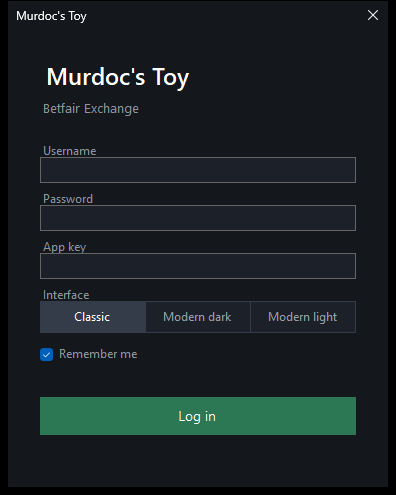
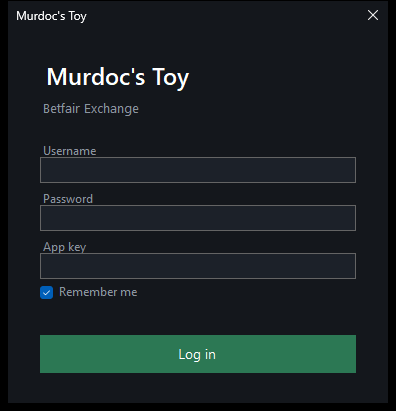
Classic is the only offered interface; Modern is deprecated (kept, reachable with --ui=dark|light); login has no interface switch; v0.5.2

diff --git a/src/MurdocsToy.Desktop/LoginForm.cs b/src/MurdocsToy.Desktop/LoginForm.cs
@@ -50,13 +50,13 @@ sealed class LoginForm : Form
 
     readonly LoginStore.Saved _saved = LoginStore.Load();
     readonly TextBox _user = Field(), _pass = Field(true), _key = Field();
-    readonly InterfacePicker _ui = new() { Dock = DockStyle.Top };
+    readonly InterfacePicker _ui = new() { Dock = DockStyle.Top, Visible = false };   // deprecated: the Modern views are no longer offered here
     readonly CheckBox _remember = new() { Text = "Remember me", AutoSize = false, Height = 28, Dock = DockStyle.Top, ForeColor = Muted, Font = new Font("Segoe UI", 9f) };
     readonly Label _status = new() { AutoSize = false, Height = 22, ForeColor = Muted, Font = new Font("Segoe UI", 9f), Dock = DockStyle.Top };
     readonly Button _ok = new() { Text = "Log in", Height = 38, Dock = DockStyle.Top, FlatStyle = FlatStyle.Flat, Font = new Font("Segoe UI", 10.5f), ForeColor = Color.White, BackColor = Color.FromArgb(44, 120, 84), Cursor = Cursors.Hand };
     readonly bool _autoLogin;
     public BetfairClient? Client { get; private set; }
-    public string Ui => _ui.Value;
+    public string Ui => _ui.Value;      // whatever was asked for on the command line; Classic by default
 
     static TextBox Field(bool password = false) => new()
     {
@@ -79,7 +79,7 @@ sealed class LoginForm : Form
         Text = "Murdoc's Toy";
         FormBorderStyle = FormBorderStyle.FixedDialog; MaximizeBox = MinimizeBox = false;
         StartPosition = FormStartPosition.CenterScreen;
-        ClientSize = new Size(380, 456);
+        ClientSize = new Size(380, 372);
         BackColor = Back; ForeColor = Color.White; Font = new Font("Segoe UI", 9f);
         Theme.TitleBar(this, Back, Color.White);
 
@@ -91,8 +91,7 @@ sealed class LoginForm : Form
         // docked Top: the last control added sits at the top
         var body = new Panel { Dock = DockStyle.Fill, Padding = new Padding(32, 28, 32, 16), BackColor = Back };
         body.Controls.Add(_ok); body.Controls.Add(Gap(6)); body.Controls.Add(_status); body.Controls.Add(_remember);
-        body.Controls.Add(Gap(8)); body.Controls.Add(_ui); body.Controls.Add(Caption("Interface"));
-        body.Controls.Add(_key); body.Controls.Add(Caption("App key"));
+                body.Controls.Add(_key); body.Controls.Add(Caption("App key"));
         body.Controls.Add(_pass); body.Controls.Add(Caption("Password"));
         body.Controls.Add(_user); body.Controls.Add(Caption("Username"));
         body.Controls.Add(Gap(14)); body.Controls.Add(sub); body.Controls.Add(title);

diff --git a/src/MurdocsToy.Desktop/Program.cs b/src/MurdocsToy.Desktop/Program.cs
@@ -15,7 +15,7 @@ static class Program
         bool auto = args.Contains("--smoke") || args.Contains("--autologin");
         string ui = (args.FirstOrDefault(a => a.StartsWith("--ui="))?[5..]) switch
         {
-            "classic" => Ui.Classic, "light" => Ui.ModernLight, "dark" => Ui.ModernDark, _ => LoginStore.Load().Ui ?? Ui.ModernDark,
+            "classic" => Ui.Classic, "light" => Ui.ModernLight, "dark" => Ui.ModernDark, _ => Ui.Classic,
         };
         Theme.Dark = ui == Ui.ModernDark;
         using var login = new LoginForm(auto, ui, args.Contains("--show-login"));
@@ -46,12 +46,6 @@ static class LoginStore
         try
         {
             var s = JsonSerializer.Deserialize<Saved>(File.ReadAllText(PathFile)) ?? new(null, null, null);
-            // Classic was the default and is now deprecated: move a saved Classic choice to Modern once. Choosing Classic again sticks.
-            if (!s.ClassicMigrated)
-            {
-                s = s with { ClassicMigrated = true, Ui = s.Ui == Ui_.Classic ? Ui_.ModernDark : s.Ui };
-                try { File.WriteAllText(PathFile, JsonSerializer.Serialize(s)); } catch { }
-            }
             return s;
         }
         catch { return new(null, null, null, ClassicMigrated: true); }

diff --git a/src/MurdocsToy.Desktop/Theme.cs b/src/MurdocsToy.Desktop/Theme.cs
@@ -2,12 +2,12 @@ using System.Runtime.InteropServices;
 
 namespace MurdocsToy.Desktop;
 
-/// <summary>User interface choices offered at login. Classic is DEPRECATED: it is kept (and still works) but gets no new features and is not the default.</summary>
+/// <summary>The interfaces. Classic is THE interface. The two Modern ones are DEPRECATED: kept (and still working) but not offered at login; start with --ui=dark or --ui=light to use them.</summary>
 public static class Ui
 {
     public const string ModernDark = "ModernDark", ModernLight = "ModernLight", Classic = "Classic";
     public static readonly string[] All = { ModernDark, ModernLight, Classic };
-    public static string Label(string ui) => ui switch { ModernLight => "Modern (light)", Classic => "Classic (deprecated)", _ => "Modern (dark)" };
+    public static string Label(string ui) => ui switch { ModernLight => "Modern light (deprecated)", Classic => "Classic", _ => "Modern dark (deprecated)" };
     public static string FromLabel(string label) => All.FirstOrDefault(u => Label(u) == label) ?? ModernDark;
 }
 

diff --git a/src/MurdocsToy.Desktop/ClassicMainForm.cs b/src/MurdocsToy.Desktop/ClassicMainForm.cs
@@ -4,7 +4,7 @@ using MurdocsToy.Core;
 namespace MurdocsToy.Desktop;
 
 /// <summary>
-/// DEPRECATED (kept for now, no new features; Modern is the default). The Classic main window: a narrow navigator (balance row, sport header, Today/All filters, country > competition > match > market
+/// The Classic main window: a narrow navigator (balance row, sport header, Today/All filters, country > competition > match > market
 /// tree with flags). Double-click a match to open its ladders.
 /// </summary>
 sealed class ClassicMainForm : Form
@@ -72,7 +72,6 @@ sealed class ClassicMainForm : Form
         _tree.NodeMouseClick += (_, e) => { if (e.Button == MouseButtons.Right) { _tree.SelectedNode = e.Node; NodeMenu(e.Node, e.Location); } };
 
         _host.Status += s => _status.Text = s;
-        _status.Text = "The Classic view is deprecated: Modern is the default now.";
         _host.FavoritesChanged += SyncFavorites;
         _scoreTimer.Tick += (_, _) => RefreshLabels();
         _volTimer.Tick += async (_, _) => await RefreshVolumes();

diff --git a/src/MurdocsToy.Desktop/ClassicLadderForm.cs b/src/MurdocsToy.Desktop/ClassicLadderForm.cs
@@ -4,7 +4,7 @@ using MurdocsToy.Core;
 namespace MurdocsToy.Desktop;
 
 /// <summary>
-/// DEPRECATED (kept for now, no new features; Modern is the default). Classic trading window for one market: a ladder per runner side by side, and the slate tools panel on the right
+/// Classic trading window for one market: a ladder per runner side by side, and the slate tools panel on the right
 /// (clock and book percentages, back/lay staking, bet persistence, market information, ladder selector).
 /// </summary>
 sealed partial class ClassicLadderForm : Form

diff --git a/src/MurdocsToy.Desktop/LadderForm.cs b/src/MurdocsToy.Desktop/LadderForm.cs
@@ -2,7 +2,7 @@ using MurdocsToy.Core;
 
 namespace MurdocsToy.Desktop;
 
-/// <summary>Pop-up trading window for one market: a ladder per runner side by side, one-click betting, stake buttons.</summary>
+/// <summary>DEPRECATED (kept, not offered). Pop-up trading window for one market: a ladder per runner side by side, one-click betting, stake buttons.</summary>
 sealed class LadderForm : Form
 {
     readonly BetfairClient _bf;

diff --git a/src/MurdocsToy.Desktop/MainForm.cs b/src/MurdocsToy.Desktop/MainForm.cs
@@ -2,7 +2,7 @@ using MurdocsToy.Core;
 
 namespace MurdocsToy.Desktop;
 
-/// <summary>The Modern main window: tree explorer on the left, selected market on the right.</summary>
+/// <summary>DEPRECATED (kept, not offered; start with --ui=dark|light). The Modern main window: tree explorer on the left, selected market on the right.</summary>
 sealed class MainForm : Form
 {
     readonly AppHost _host;

diff --git a/README.md b/README.md
@@ -2,22 +2,18 @@
 
 An open-source Betfair Exchange trading client for Windows, with a browser UI that mirrors it.
 
-- **Desktop** (`src/MurdocsToy.Desktop`, C# / WinForms) in three interfaces you pick at login: **Modern (dark)**, **Modern (light)** and **Classic**.
+- **Desktop** (`src/MurdocsToy.Desktop`, C# / WinForms) with the **Classic** interface: a dense, traditional trading layout. (Two older *Modern* interfaces are still in the code but deprecated and not offered.)
 - **Web** (`web/`, dependency-free Node server + single-page UI). While the desktop app runs it serves this UI itself and mirrors what you are looking at.
 
 Everything uses only Betfair's public, documented [Exchange API-NG](https://betfair-developer-docs.atlassian.net/wiki/spaces/1smk3cen4v3lu3yomq5qye0ni/overview). This is an independent, clean-room project: all code and artwork are original, and it is not affiliated with Betfair.
 
-## Interfaces
+## Interface
 
-Choose one with the **Interface** switch on the login window (**Modern dark is the default**; Classic is deprecated, see below) (Classic is the default; your choice is remembered; `--ui=dark|light|classic` overrides it).
-
-**Modern (dark / light)**: tree explorer on the left, selected market on the right, pop-up ladders. Dark mode includes a dark title bar and dark menus.
-
-![Modern dark main window](docs/desktop.png)
-
-**Classic (deprecated)**: kept for now and still works, but it gets no new features and is no longer the default. A dense, traditional trading layout. A narrow navigator window with the account balance, a sport header, a date filter (*Today / Tomorrow / Next 2 days*) and a scope filter (*All / In-play / Favorites*, opening on In-play), and a **country > competition > match > market** tree with flags. Each match opens in a trading window with a **ladder per runner side by side** (name and stake header, position panel, bar-scale strip, summary row, price rows with a grey price column, pink *lay* and blue *back* columns, your own orders, traded volume, a green/red depth bar and order boxes) next to a slate **tools panel**: clock, book percentages, back and lay staking (lay can be stake or liability), bet persistence, *Green up all*, *Cancel all*, market information and a ladder selector. The window title shows the matched amount, e.g. `Viking v Bayern Munich - Match Odds   €233 658`.
+The app opens in the **Classic** interface. The earlier *Modern dark/light* interfaces are **deprecated**: the code is kept, but they are not offered at login and get no new features (start with `--ui=dark` or `--ui=light` to see them).
 
 ![Login](docs/login.png)
+
+**Classic**: a dense, traditional trading layout. A narrow navigator window with the account balance, a sport header, a date filter (*Today / Tomorrow / Next 2 days*) and a scope filter (*All / In-play / Favorites*, opening on In-play), and a **country > competition > match > market** tree with flags. Each match opens in a trading window with a **ladder per runner side by side** (name and stake header, position panel, bar-scale strip, summary row, price rows with a grey price column, pink *lay* and blue *back* columns, your own orders, traded volume, a green/red depth bar and order boxes) next to a slate **tools panel**: clock, book percentages, back and lay staking (lay can be stake or liability), bet persistence, *Green up all*, *Cancel all*, market information and a ladder selector. The window title shows the matched amount, e.g. `Viking v Bayern Munich - Match Odds   €233 658`.
 
 ![Classic navigator](docs/classic-main.png)
 
@@ -25,7 +21,7 @@ Choose one with the **Interface** switch on the login window (**Modern dark is t
 
 ![Classic trading window](docs/classic-ladder.png)
 
-### Classic extras (Classic view only, deprecated)
+### Classic extras
 
 - **Card**: minimize a Classic ladder and it turns into a small card: date and time, clock, live score, matched amount, back/lay book percentages and, per selection, the last price with its trend and the three best back and lay prices with the money on each. Press **Open ladder** (or double-click it) to bring the full ladder back. *Open card only* in the navigator's right-click menu opens a market straight into a card.
 
@@ -34,7 +30,7 @@ Choose one with the **Interface** switch on the login window (**Modern dark is t
 - **Automation** (below the ladder selector): one switch, **OFF or ON**. When ON, a **goal** (reported by the score relay) or a **suspension** (bets go in the moment the market reopens, since Betfair refuses bets while suspended) places a bet you configure on every ticked selection: back or lay, an amount (or liability for lay), priced from the **last traded price** or the **best available price**, moved a number of **ticks** up or down the Betfair price ladder. It asks you to confirm when you turn it on, showing the worst-case loss, has a cooldown between firings, stops after 20 bets or 3 failures in a row, and refuses to act on delayed prices unless you allow it. It always starts OFF.
 - **Live video panel**: click the little screen in the status panel. A small browser (Edge WebView2) opens inside the ladder window on the market's page on betfair.com; log in to the website there once and Betfair's own player appears for the events your account is eligible for. Shift-click opens your normal browser instead. The app never handles the video stream (Betfair does not offer it through the API).
 - **Hover help**: every control and every region of the ladder explains itself when you hover over it.
-- **Auto-expand**: a tree level with a single choice opens by itself (Modern and Classic).
+- **Auto-expand**: a tree level with a single choice opens by itself.
 
 ![Classic tools panel](docs/classic-tools.png)
 
@@ -47,7 +43,7 @@ Choose one with the **Interface** switch on the login window (**Modern dark is t
 - **Position and green up**: profit if each runner wins or loses, and a button that places the hedge bet locking the same profit either way.
 - **Favorites** (matches and competitions): star a match (★ Favorite, right-click, or ☆ in the browser) or a whole **competition** such as AFC Champions League or Primeira Liga (right-click it in the desktop tree, press ★ Favorite on it, or ☆ next to it in the browser). Favorites sit in a ★ Favorites section at the top of the tree; a favorite competition expands to its matches. Tick **Auto-open favorites on score change** and the ladder of any starred match, or of any match in a starred competition, opens (or is brought to the front) whenever its score changes, including a goal being taken away by VAR.
 - **Live scores**: point *Options > Live scores relay* at a WebSocket relay broadcasting JSON `snapshot`, `goal` and `var` messages (`home_team`, `away_team`, `home_score`, `away_score`, optional `scoring_team`). Teams are matched to Betfair events by name (accents, "Utd"/"United", FC/SC prefixes, youth/women/reserve squads handled). The standalone web server reads `MT_RELAY_URL`.
-- **Liquidity tracker** in every pop-up ladder (Modern) and the Classic status panel: matched volume and per-minute rate, money available to back and lay, book percentages, history charts.
+- **Liquidity**: the Classic status panel shows matched volume and per-minute rate, money available to back and lay, book percentages, history charts.
 - **Mirror to web**: the desktop app serves the web UI at **http://localhost:8080** (next free port if busy) using its own Betfair session. The browser needs no login, follows the market you select, lists the open ladders and uses your stake buttons. It listens on this machine only, and POSTs need a custom header so other websites cannot place bets.
 - **Remembered login**: the password is stored encrypted with Windows DPAPI (only your Windows account can decrypt it); expired sessions renew themselves. *Options > Forget saved login* removes it.
 - **Privacy mode**: `--privacy` hides balance and orders (for screenshots and screen sharing).
@@ -68,7 +64,7 @@ Choose one with the **Interface** switch on the login window (**Modern dark is t
 
 ## Install (Windows)
 
-Download `MurdocsToy-Setup-0.5.1.exe` from the [Releases](../../releases) page and run it. It needs no .NET install, adds a Start Menu entry and an optional desktop shortcut, and can be removed from *Apps & features*. Windows SmartScreen may warn because the installer is unsigned.
+Download `MurdocsToy-Setup-0.5.2.exe` from the [Releases](../../releases) page and run it. It needs no .NET install, adds a Start Menu entry and an optional desktop shortcut, and can be removed from *Apps & features*. Windows SmartScreen may warn because the installer is unsigned.
 
 On first launch enter your Betfair username, password and application key, and pick an interface.
 
@@ -77,7 +73,7 @@ To build the installer yourself:
 ```bash
 dotnet publish src/MurdocsToy.Desktop -c Release -r win-x64 --self-contained true \
   -p:PublishSingleFile=true -p:IncludeNativeLibrariesForSelfExtract=true -o dist/app
-ISCC.exe installer/MurdocsToy.iss      # needs Inno Setup 6 -> dist/MurdocsToy-Setup-0.5.1.exe
+ISCC.exe installer/MurdocsToy.iss      # needs Inno Setup 6 -> dist/MurdocsToy-Setup-0.5.2.exe
 ```
 
 ## Configure
